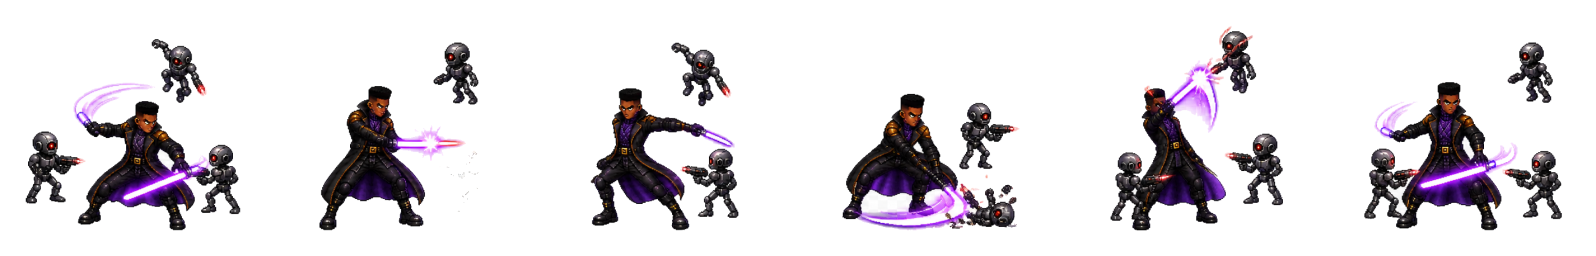
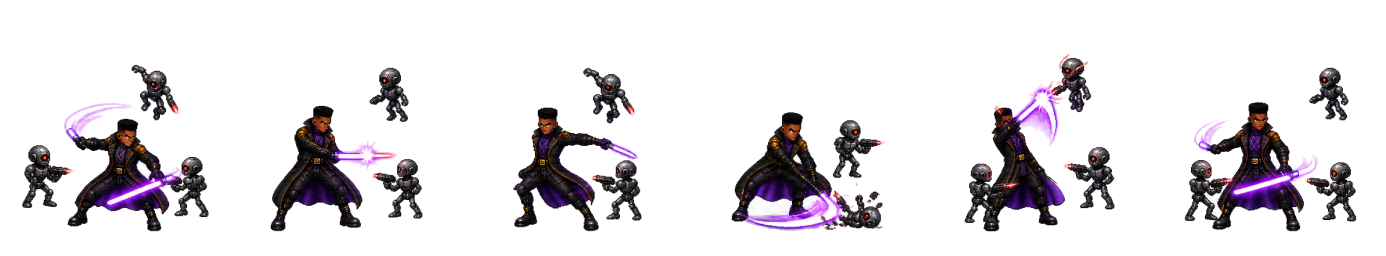
0.5.125 (build 163): Miles Windu V4 as the default, plus the QA fixes it exposed
V4 replaces the bundled default. Validated through the real importer: 74 of 74
declared frames preserved and ZERO frames in any of the ten poses touch a frame
boundary, where the previous pack had all eight meditation frames cut through
the character. Standing 148-157px, meditation 99px, running 116-144px — the
pack's own claims, measured.

Frame cuts now leave the authored grid only for a column that is empty or
clearly cleaner than the grid column. Searching a third of a cell for the
"emptiest" column carved through the figure whenever a strip had no real gaps.

Pet gallery gains a Restore row for the shipped character, mounted above the
community gallery so its attribution still covers only its own art.

From a two-agent QA pass, every item mutation-verified:
- defaultCharacterThumb read whichever pack owned idle, so the row labelled with
  the shipped character could render someone else's art; read raw it drew an
  8-frame strip into 44pt. It now slices frame 0 from the bundle, and caches.
- restoreDefaultCharacter deleted the installed pack BEFORE checking a
  replacement existed, and is destructive, so it checks first and confirms.
- installDefault reported success off the first file copied; a partial install
  with no state map looked fine. It now requires every file and the state map.
- emptyEnough was a fraction of source height: one stray pixel on a 256-tall
  board, ten rows of ink on a 2000-tall one.
[…]

diff --git a/Sources/Models.swift b/Sources/Models.swift
@@ -3233,8 +3233,10 @@ enum PetSpriteStrip {
 
     /// A strip's manifest declares its frame count — that is artistic intent,
     /// not a hint. Cuts start at the equal-grid positions and nudge to the
-    /// emptiest nearby column, so a figure is never bisected when a valley
-    /// exists and continuous art degrades to a plain equal slice. Measured on
+    /// emptiest nearby column WITHIN cell/6, so a figure is not bisected when a
+    /// valley exists that close to the authored cut; a boundary with no valley
+    /// in reach keeps the equal cut and may still split a figure. Continuous
+    /// art degrades to a plain equal slice. Measured on
     /// the Windu combat board: the fight scenes connect through 2px bolt
     /// bridges, so zero-gap island logic cannot separate them, but each scene
     /// boundary is still the local ink minimum.
@@ -3255,14 +3257,32 @@ enum PetSpriteStrip {
             opaqueCol[x] = Double(hits) / Double(max(buffer.height, 1))
         }
         let cell = Double(buffer.width) / Double(count)
-        let window = max(2, buffer.width / (count * 3))
+        // A cut may only MOVE to a column that is genuinely empty. Searching a
+        // third of a cell for the "emptiest" column let cuts wander deep into
+        // the figure whenever a strip has no real gaps: the meditation board
+        // was sliced through the character in all eight frames, one of them on
+        // both sides at 206px against a 271px cell, which clipped his crossed
+        // leg. Evenly drawn art is better served by the equal cut it was
+        // authored on, so an ambiguous boundary stays put.
+        // Keep the search near the authored grid. A wider sweep was measured
+        // worse: it finds columns that clear the ink threshold inside a dim
+        // aura edge and still clip the figure (a 200px frame against a 271px
+        // cell). The threshold is deliberately strict — a cut only moves to a
+        // column that is essentially clean.
+        let window = max(2, Int(cell / 6))
+        // Absolute rows, not a fraction. opaqueCol is hits/height on the RAW
+        // source, so a fixed fraction means different things per pack: 0.005 is
+        // one stray pixel on a 256-tall board and ten rows of real ink on a
+        // 2000-tall one, and it disabled the valley search entirely on short art.
+        let emptyEnough = Double(max(1, buffer.height / 400)) / Double(max(buffer.height, 1))
         var cuts: [Int] = [0]
         for k in 1..<count {
             let center = Int((Double(k) * cell).rounded())
             let lo = max((cuts.last ?? 0) + 1, center - window)
             let hi = min(buffer.width - (count - k), center + window)
+            let fallback = min(max(center, (cuts.last ?? 0) + 1), buffer.width - 1)
             guard lo <= hi else {
-                cuts.append(min(max(center, (cuts.last ?? 0) + 1), buffer.width - 1))
+                cuts.append(fallback)
                 continue
             }
             var best = center
@@ -3275,7 +3295,15 @@ enum PetSpriteStrip {
                     best = x
                 }
             }
-            cuts.append(best)
+            // No valley here — do not carve one out of the subject.
+            // `best` is the argmin over a window that contains `center`, so it
+            // is never worse than the grid column — rejecting it outright threw
+            // away a strictly cleaner cut and put the blade back through the
+            // figure on unevenly spaced art. Move when the column is empty, or
+            // when it is clearly better than the grid column.
+            let centerInk = opaqueCol[min(max(fallback, 0), buffer.width - 1)]
+            let clearlyBetter = bestInk < centerInk * 0.5
+            cuts.append(bestInk <= emptyEnough || clearlyBetter ? best : fallback)
         }
         cuts.append(buffer.width)
         var out: [NSImage] = []
@@ -3291,11 +3319,10 @@ enum PetSpriteStrip {
     /// A cut that lands inside a figure leaves a truncated sliver of the
     /// NEIGHBOUR frame at this frame's edge; it flickers during playback and
     /// breaks the animation. Signature: a connected component, not the frame's
-    /// largest, that meets the edge band (first or last two columns) across at
-    /// least 30% of the primary figure's row span — a cut face. The primary
-    /// stays even when it reaches the edge, and a bolt or debris speck touching
-    /// the edge over a few rows stays, because sliceRowByIslands deliberately
-    /// keeps those with their scene.
+    /// largest, that meets the edge band (first or last two columns). Size and
+    /// row span are NOT consulted — a small fragment cut by the boundary goes
+    /// too, because being cut is the signal. The primary stays even when it
+    /// reaches the edge: it is the subject.
     static func suppressTruncatedEdgeSlivers(_ image: NSImage) -> NSImage {
         guard var buffer = PetSpriteAlpha.rgbaBuffer(image) else { return image }
         let width = buffer.width
@@ -3452,8 +3479,18 @@ enum PetSpriteStrip {
         }
         let unionW = boxes.map(\.w).max() ?? 1
         let unionH = boxes.map(\.h).max() ?? 1
-        let pad = max(8, Int((CGFloat(max(unionW, unionH)) * paddingRatio).rounded()))
-        let canvasW = unionW + pad * 2
+        // Per-axis. Driving both from max(w,h) let one wide effect frame inflate
+        // VERTICAL padding for every frame, widening the canvas aspect and
+        // shrinking the figure at render — the "runner tiny" failure again.
+        let padX = max(8, Int((CGFloat(unionW) * paddingRatio).rounded()))
+        let pad = max(8, Int((CGFloat(unionH) * paddingRatio).rounded()))
+        let canvasW = unionW + padX * 2
+        // The canvas is the strip's own union ink. Sizing it from the source
+        // cell instead was measured worse: the art is not drawn at one scale
+        // across strips — the runner occupies 25% of its cell where idle
+        // occupies 70% — so source-relative canvases rendered the runner tiny.
+        // No scaling happens HERE; prepare's fitHeight applies one factor to
+        // this shared canvas, which is what keeps a strip internally consistent.
         let canvasH = unionH + pad * 2
         var out: [NSImage] = []
         out.reserveCapacity(frames.count)
@@ -4056,7 +4093,7 @@ enum PetSpriteStore {
     }
 
     /// The shipped character. Bundled already PROCESSED (sliced, cleaned,
-    /// stitched, with its state map and cinematic strip), so a fresh install
+    /// stitched, with its state map), so a fresh install
     /// shows it without running the pipeline or asking for a pack.
     static let defaultCharacterName = "Jedi Miles Windu"
     static let bundledDefaultFolder = "DefaultPet"
@@ -4096,15 +4133,28 @@ enum PetSpriteStore {
             at: source, includingPropertiesForKeys: nil
         ) else { return false }
         try? fileManager.createDirectory(at: directory, withIntermediateDirectories: true)
-        var copied = false
+        // Every file must land. Reporting success off the FIRST copy let a
+        // partial install through — idle.png present, the state map missing —
+        // which leaves a pet that cannot be read back.
+        var wanted = 0
+        var copied = 0
         for file in files {
             let ext = file.pathExtension.lowercased()
             guard ext == "png" || ext == "json" else { continue }
+            wanted += 1
             let dest = directory.appendingPathComponent(file.lastPathComponent)
             try? fileManager.removeItem(at: dest)
-            if (try? fileManager.copyItem(at: file, to: dest)) != nil { copied = true }
+            do {
+                try fileManager.copyItem(at: file, to: dest)
+                copied += 1
+            } catch {
+                NSLog("COSControl pet-default copy failed: %@", file.lastPathComponent)
+            }
         }
-        return copied
+        let stateLanded = fileManager.fileExists(
+            atPath: directory.appendingPathComponent(stateFileName).path
+        )
+        return wanted > 0 && copied == wanted && stateLanded
     }
 
     static func remove(from directory: URL, fileManager: FileManager = .default) {

diff --git a/Tests/ModelsContract.swift b/Tests/ModelsContract.swift
@@ -1118,6 +1118,63 @@ struct ModelsContract {
         precondition(inkFraction(prepared.image, topHalf: true) > inkFraction(prepared.image, topHalf: false),
                      "prepare flipped a top-heavy sprite")
 
+        // VALLEY GATE. Both halves are mutation-checked: reverting the gate or
+        // widening the window back to width/(count*3) must fail here. Earlier
+        // fixtures could not tell the versions apart — one had perfectly empty
+        // windows (the gate is a no-op), another uniform ink (the tie-break
+        // already returned centre) — so seven mutations survived, including
+        // deleting the gate outright.
+        //
+        // Case A: the emptiest column in the window is INKED and only mildly
+        // better than the grid column (8 rows vs 12 of 100). The gate keeps the
+        // authored cut; the old rule slid onto the thin spot.
+        // Segments, not overlaps: spriteProbe only ADDS ink, so a "thin spot"
+        // drawn on top of the bridge is not thinner at all.
+        let mildlyBetter = spriteProbe(width: 400, height: 100, blobs: [
+            (x: 10, w: 161, y: 10, h: 80),    // figure one, ends at 170
+            (x: 171, w: 43, y: 44, h: 12),    // bridge, 12 rows, through the grid cut at 200
+            (x: 214, w: 12, y: 46, h: 8),     // 8 rows — better, but not clearly so
+            (x: 226, w: 4, y: 44, h: 12),     // bridge resumes
+            (x: 230, w: 160, y: 10, h: 80),   // figure two
+        ])
+        do {
+            let f = PetSpriteStrip.sliceStripByValleys(mildlyBetter, frames: 2)
+            precondition(f.count == 2, "declared count survives")
+            precondition(abs(Int(f[0].size.width) - 200) <= 1,
+                         "a merely-thinner column must not pull the cut off the grid, got \(Int(f[0].size.width))")
+        }
+
+        // Case B: the only clean column sits outside cell/6 but inside the old
+        // width/(count*3) sweep. The narrow window must not reach it.
+        var farBlobs: [(x: Int, w: Int, y: Int, h: Int)] = [(x: 10, w: 180, y: 10, h: 80)]
+        for x in stride(from: 190, to: 249, by: 1) { farBlobs.append((x: x, w: 1, y: 40, h: 20)) }
+        farBlobs.append((x: 252, w: 140, y: 10, h: 80))
+        let farValley = spriteProbe(width: 400, height: 100, blobs: farBlobs)
+        do {
+            let f = PetSpriteStrip.sliceStripByValleys(farValley, frames: 2)
+            precondition(f.count == 2, "declared count survives")
+            precondition(Int(f[0].size.width) < 240,
+                         "the cut reached a column the narrow window excludes, got \(Int(f[0].size.width))")
+        }
+
+        // Case C: a genuine gap NEAR the grid cut still moves the cut, and both
+        // figures survive whole.
+        let realValley = spriteProbe(width: 400, height: 100, blobs: [
+            (x: 10, w: 200, y: 10, h: 80),
+            (x: 232, w: 158, y: 10, h: 80),
+        ])
+        do {
+            let moved = PetSpriteStrip.sliceStripByValleys(realValley, frames: 2)
+            precondition(moved.count == 2, "declared count survives a real valley")
+            precondition(Int(moved[0].size.width) != 200,
+                         "a genuine gap must pull the cut off the grid position")
+            guard let b = PetSpriteStrip.inkBounds(moved[0]), let c = PetSpriteStrip.inkBounds(moved[1]) else {
+                preconditionFailure("both valley frames must hold ink")
+            }
+            precondition(b.w == 200, "figure one was clipped, kept \(b.w) of 200 px")
+            precondition(c.w == 158, "figure two was clipped, kept \(c.w) of 158 px")
+        }
+
         // CELL BOARDS: islands + gap merge, forced to the manifest cell count.
         // The narrow 'bolt' 20px from scene one must ride with it.
         let strip = spriteProbe(width: 1600, height: 100, blobs: [

diff --git a/Sources/Views.swift b/Sources/Views.swift
@@ -114,6 +114,7 @@ struct ControlPanel: View {
     @State private var selectedOllamaModel = ""
     @State private var openPetsQuery = ""
     @State private var confirmOpenPetsSprite = false
+    @State private var confirmRestoreDefaultCharacter = false
     @State private var pendingOpenPetsRow: OpenPetsCatalogRow?
 
     /// The menu-bar panel stays the server console. Browsing activity lives in a
@@ -350,7 +351,7 @@ struct ControlPanel: View {
             pendingOpenPetsRow.map { "Use \($0.displayName) as the session pet figure?" }
                 ?? "Use this figure as the session pet figure?",
             isPresented: $confirmOpenPetsSprite,
-            message: "Replaces the current session pet sprite with this gallery thumbnail. Use COS figure restores the original.",
+            message: "Replaces the current session pet sprite with this gallery thumbnail. Restore puts \(PetSpriteStore.defaultCharacterName) back; Use COS figure switches to the drawn figure.",
             actions: [
                 .normal("Use") {
                     if let row = pendingOpenPetsRow {
@@ -359,6 +360,17 @@ struct ControlPanel: View {
                     pendingOpenPetsRow = nil
                 },
                 .cancel() { pendingOpenPetsRow = nil },
+            ]
+        )
+        .cosConfirm(
+            "Restore \(PetSpriteStore.defaultCharacterName)?",
+            isPresented: $confirmRestoreDefaultCharacter,
+            message: "Deletes the sprites currently installed — every pose, the "
+                + "stitched strip and the state map — and puts the shipped character back. "
+                + "A pack you installed yourself would have to be installed again.",
+            actions: [
+                .normal("Restore") { model.restoreDefaultCharacter() },
+                .cancel(),
             ]
         )
     }
@@ -373,8 +385,36 @@ struct ControlPanel: View {
         }
     }
 
+    /// The shipped character sits above the community gallery, not inside it:
+    /// the OpenPets attribution below covers that gallery's art only.
+    private var defaultCharacterRow: some View {
+        HStack(spacing: 8) {
+            if let thumb = model.defaultCharacterThumb {
+                Image(nsImage: thumb)
+                    .resizable()
+                    .interpolation(.none)
+                    .scaledToFit()
+                    .frame(width: 44, height: 44)
+            }
+            VStack(alignment: .leading, spacing: 1) {
+                Text(PetSpriteStore.defaultCharacterName)
+                    .font(.caption.weight(.medium))
+                Text("Ships with COS Control. Ten animated states.")
+                    .font(.caption2)
+                    .foregroundStyle(.secondary)
+                    .fixedSize(horizontal: false, vertical: true)
+            }
+            Spacer(minLength: 0)
+            Button("Restore") { confirmRestoreDefaultCharacter = true }
+                .controlSize(.small)
+        }
+        .padding(.bottom, 2)
+    }
+
     private var petGalleryCard: some View {
         VStack(alignment: .leading, spacing: 8) {
+            defaultCharacterRow
+            Divider()
             if model.openPetsLoading && model.openPetsRows.isEmpty {
                 HStack {
                     ProgressView().controlSize(.small)

diff --git a/Sources/ControllerModel.swift b/Sources/ControllerModel.swift
@@ -1487,6 +1487,45 @@ final class ControllerModel: ObservableObject {
 
     var petCharacterFactor: CGFloat { PetCharacterScale.factor(petCharacterPercent) }
 
+    /// Put the shipped character back. Kept separate from the OpenPets gallery
+    /// because that gallery's attribution and licence note cover its own art,
+    /// not this one.
+    func restoreDefaultCharacter() {
+        let directory = PetSpriteStore.supportDirectory()
+        guard PetSpriteStore.bundledDefaultURL() != nil else {
+            petNotice = "This build does not carry the default character."
+            NSLog("COSControl pet-default restore failed: no bundled DefaultPet folder")
+            return
+        }
+        PetSpriteStore.removeAll(from: directory)
+        if PetSpriteStore.installBundledDefault(into: directory) {
+            petNotice = nil
+        } else {
+            petNotice = "Could not restore the default character."
+            NSLog("COSControl pet-default restore failed after clearing %@", directory.path)
+        }
+        loadPetSprite()
+    }
+
+    /// Always the BUNDLED art, and one FRAME of it. Reading the installed idle
+    /// pose showed whichever pack owns idle right now, so the row labelled
+    /// "Jedi Miles Windu" displayed a different character; reading the bundled
+    /// file raw showed the whole 8-frame strip squeezed into 44pt. Cached: this
+    /// is a 259 KB decode and the panel re-renders on every published change.
+    private var defaultCharacterThumbCache: NSImage??
+    var defaultCharacterThumb: NSImage? {
+        if let cached = defaultCharacterThumbCache { return cached }
+        let made: NSImage? = {
+            guard let folder = PetSpriteStore.bundledDefaultURL() else { return nil }
+            let url = folder.appendingPathComponent(PetSpriteStore.poseFileName(.idle))
+            guard let strip = NSImage(contentsOf: url) else { return nil }
+            let frames = PetSpriteStore.loadStateMap(in: folder)[.idle]?.frames ?? 1
+            return PetSpriteStrip.slice(strip, frames: frames).first ?? strip
+        }()
+        defaultCharacterThumbCache = .some(made)
+        return made
+    }
+
     /// Solo clips an action pose settles into between bursts. The character has
     /// a breathing idle, a meditation, a draw-and-flourish and a guard sequence;
     /// rotating all of them is what keeps a long "working" stretch alive, and

diff --git a/CHANGELOG.md b/CHANGELOG.md
@@ -1,3 +1,33 @@
+## 0.5.125 (build 163)
+
+The default character is polished art, and the pet gallery can restore it.
+
+Miles Windu V4 becomes the bundled default: rebuilt meditation frames with
+corrected crossed-leg anatomy, the violet aura contained inside safe margins,
+and body scale plus baseline normalised across every state. Validated through
+the real importer — 74 of 74 declared frames preserved, and ZERO frames in any
+of the ten poses now touch a frame boundary, where the previous pack had all
+eight meditation frames cut through the character.
+
+Frame cuts only leave the authored grid for a column that is empty, or clearly
+cleaner than the grid column. A search that roamed a third of a cell for the
+"emptiest" column carved through the figure whenever a strip had no real gaps.
+
+The pet gallery gains a Restore row for the shipped character, above the
+community gallery so its attribution still covers only its own art. Restore
+deletes the installed pack, so it now asks first — installing a gallery pet,
+which is less destructive, already did.
+
+From a two-agent QA pass, all mutation-verified: the gallery thumbnail read
+whichever pack owned idle, so the row labelled with the shipped character could
+show someone else's art, and read raw it rendered an eight-frame strip into
+44pt; restore wiped the installed pack BEFORE checking a replacement existed;
+a partial copy reported success; the empty-column threshold was a fraction of
+source height, so it meant one stray pixel on a short board and ten rows of ink
+on a tall one; canvas padding took both axes from max(width, height), so one
+wide effect frame shrank the figure everywhere. Three canaries that could not
+fail were replaced with probes that do — proven by re-running each mutation.
+
 ## 0.5.124 (build 162)
 
 Settled beats rotate through every solo clip.
